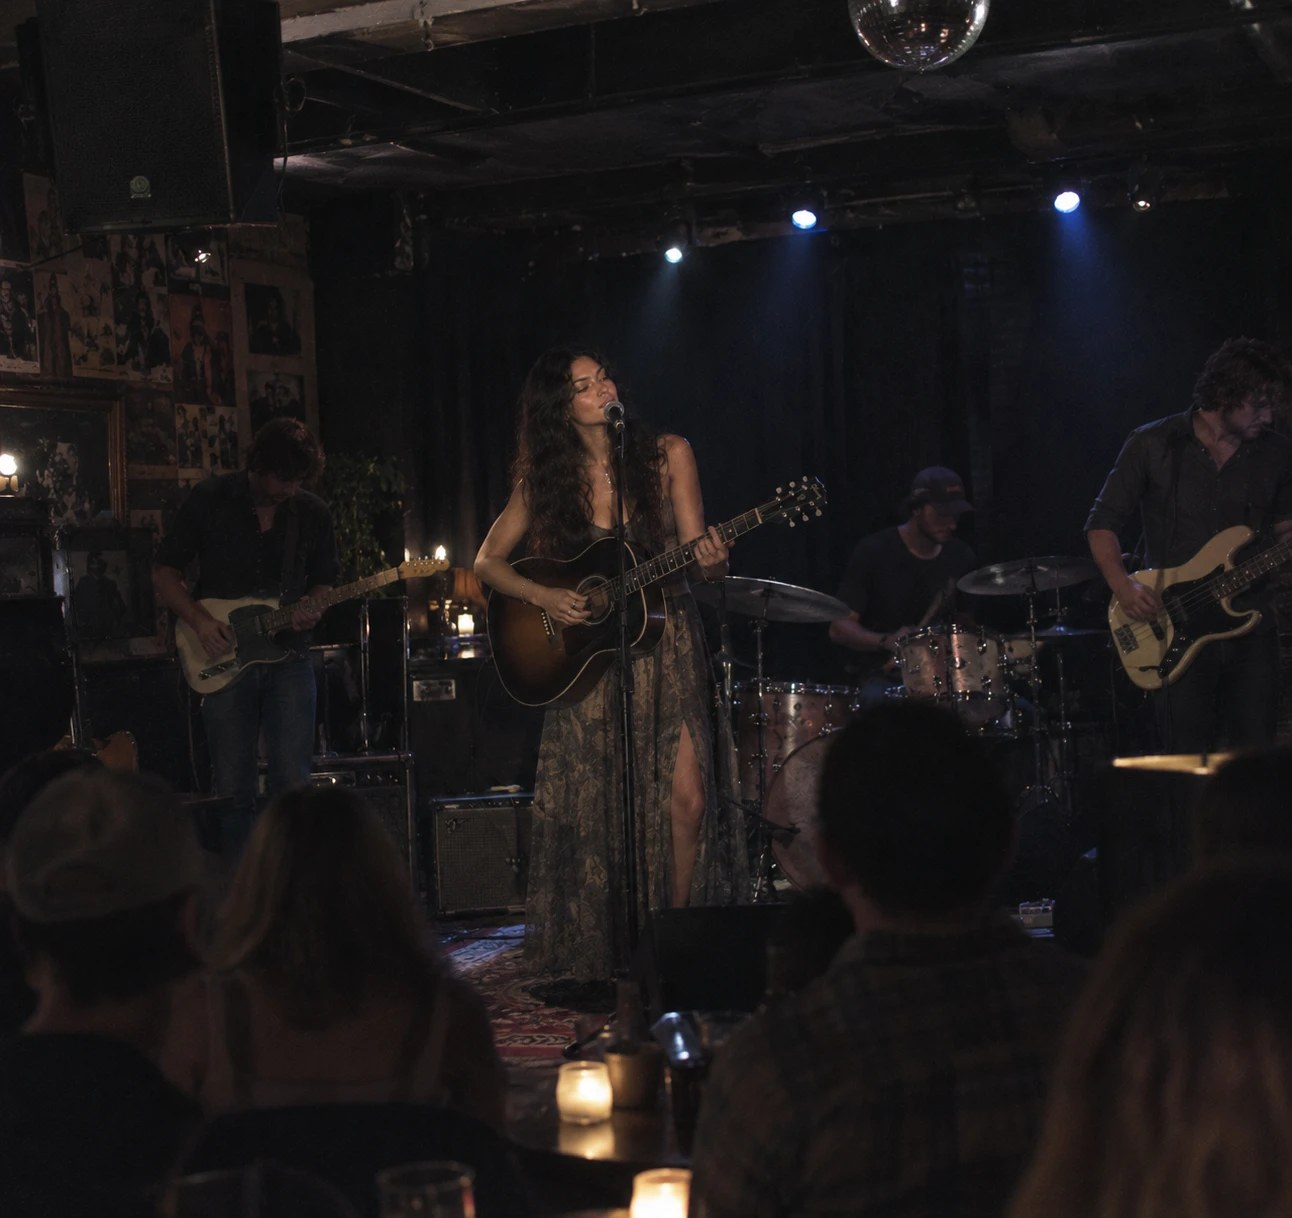
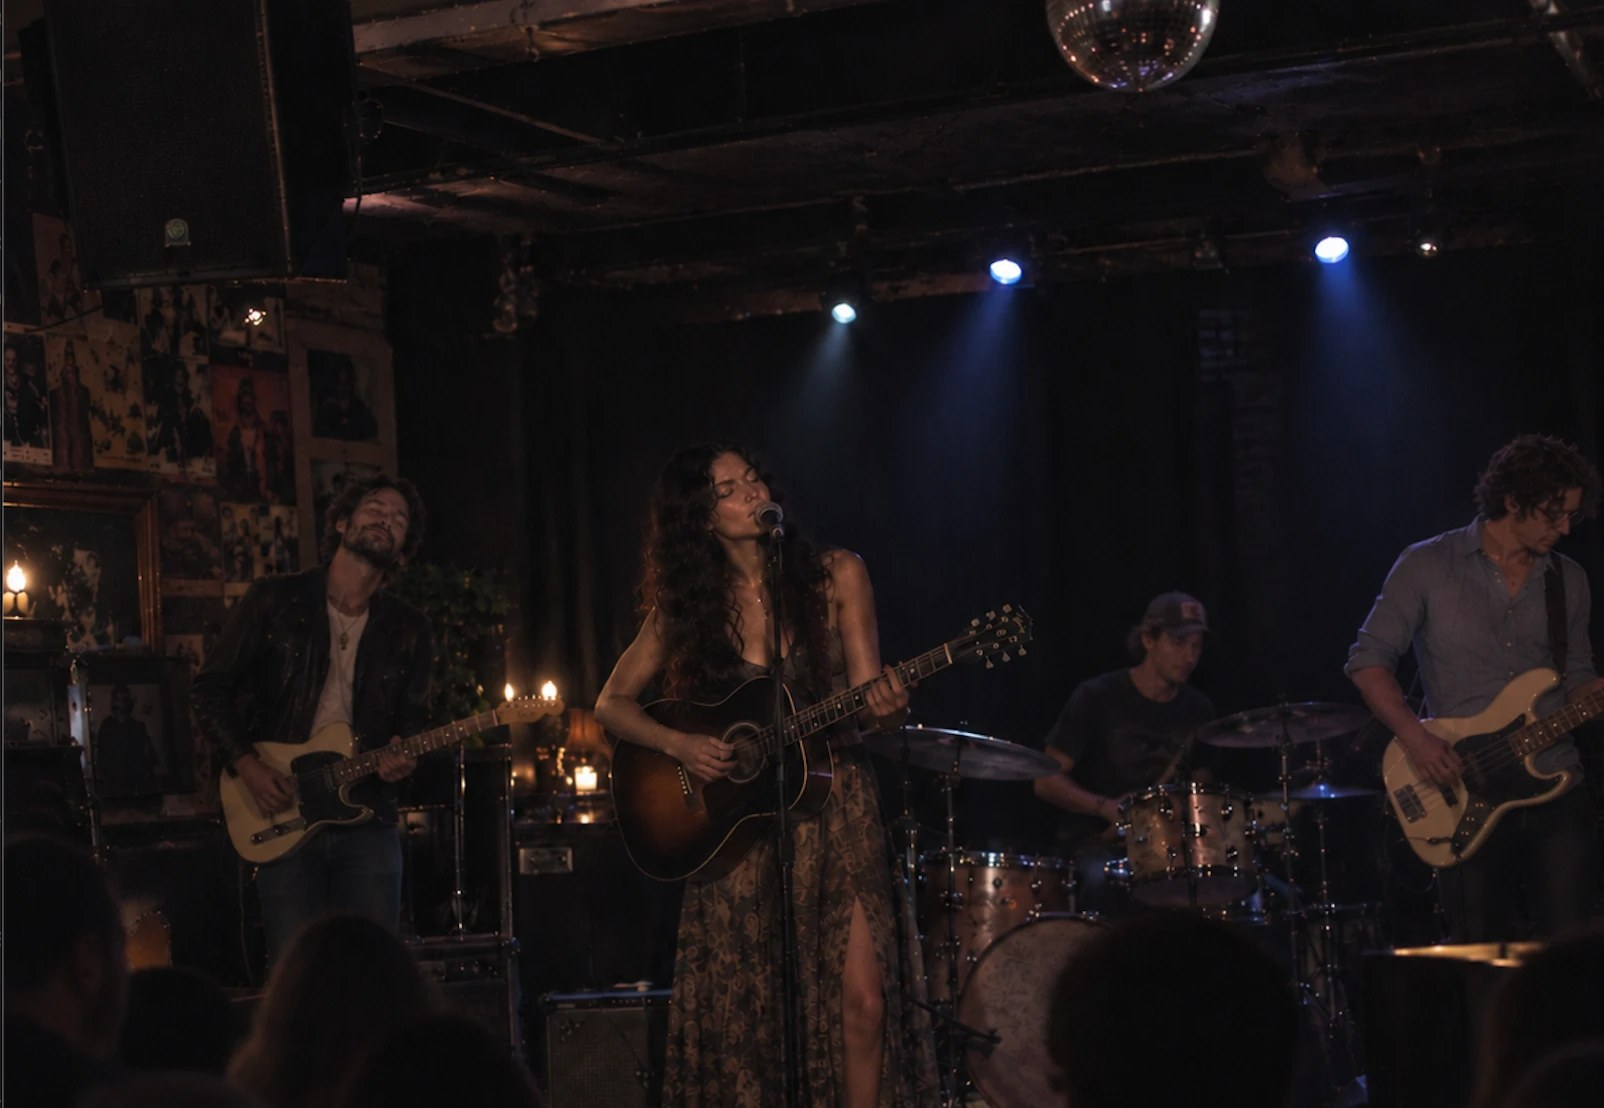
Add new live photo to gallery (metadata-free): Vee and her band, The Honey Makers

diff --git a/index.html b/index.html
@@ -19,7 +19,7 @@
 <meta property="og:image:height" content="630">
 <meta property="og:image:alt" content="Vee Valentine wordmark beside a portrait of the artist at a vintage microphone">
 <meta name="twitter:card" content="summary_large_image">
-<link rel="stylesheet" href="style.css?v=31">
+<link rel="stylesheet" href="style.css?v=32">
 <script type="application/ld+json">{"@context":"https://schema.org","@type":"MusicGroup","name":"Vee Valentine","url":"https://veevalentine.com/","description":"Chicago vocalist blending classic jazz and lounge influences with modern pop.","genre":["Pop","Jazz","Lounge"],"image":"https://veevalentine.com/images/og-vee-valentine.jpg"}</script>
 </head>
 <body>
@@ -98,7 +98,7 @@
 <a class="thumb" href="images/web/booth-full.webp" data-lightbox><img src="images/web/booth-full.webp" srcset="images/web/booth-640.webp 640w, images/web/booth-full.webp 896w" sizes="(max-width:899px) 46vw, 22vw" width="896" height="1181" alt="Vee in the studio" loading="lazy" decoding="async"></a>
 <a class="thumb" href="images/web/studio-full.webp" data-lightbox><img src="images/web/studio-full.webp" srcset="images/web/studio-640.webp 640w, images/web/studio-full.webp 1024w" sizes="(max-width:899px) 46vw, 22vw" width="1024" height="1535" alt="Vee recording demos" loading="lazy" decoding="async"></a>
 <a class="thumb" href="images/web/group-full.webp" data-lightbox><img src="images/web/group-full.webp" srcset="images/web/group-640.webp 640w, images/web/group-full.webp 1086w" sizes="(max-width:899px) 46vw, 22vw" width="1086" height="1448" alt="Vee in Nashville with her band (The Honey Makers)" loading="lazy" decoding="async"></a>
-<a class="thumb thumb-wide" href="images/web/live-full.webp" data-lightbox><img src="images/web/live-full.webp" srcset="images/web/live-640.webp 640w, images/web/live-full.webp 1292w" sizes="(max-width:1180px) 92vw, 1116px" width="1292" height="1218" alt="Vee and her band, The Honey Makers" loading="lazy" decoding="async"></a>
+<a class="thumb thumb-wide" href="images/web/live-full.webp" data-lightbox><img src="images/web/live-full.webp" srcset="images/web/live-640.webp 640w, images/web/live-full.webp 1604w" sizes="(max-width:1180px) 92vw, 1116px" width="1604" height="1108" alt="Vee and her band, The Honey Makers" loading="lazy" decoding="async"></a>
 </div>
 </div>
 </section>

diff --git a/style.css b/style.css
@@ -248,5 +248,5 @@ dialog.lb::backdrop{background:rgba(20,6,12,.94)}
 
 /* Wide feature photo in the gallery */
 .thumb-wide{grid-column:1/-1}
-.thumb-wide img{aspect-ratio:16/9;object-position:50% 42%}
-@media (min-width:900px){.thumb-wide img{aspect-ratio:2.2/1;object-position:50% 38%}}
+.thumb-wide img{aspect-ratio:16/9;object-position:50% 50%}
+@media (min-width:900px){.thumb-wide img{aspect-ratio:2.2/1;object-position:50% 62%}}

diff --git a/about.html b/about.html
@@ -19,7 +19,7 @@
 <meta property="og:image:height" content="630">
 <meta property="og:image:alt" content="Vee Valentine wordmark beside a portrait of the artist at a vintage microphone">
 <meta name="twitter:card" content="summary_large_image">
-<link rel="stylesheet" href="style.css?v=31">
+<link rel="stylesheet" href="style.css?v=32">
 </head>
 <body>
 <a class="skip" href="#main">Skip to content</a>

diff --git a/contact.html b/contact.html
@@ -19,7 +19,7 @@
 <meta property="og:image:height" content="630">
 <meta property="og:image:alt" content="Vee Valentine wordmark beside a portrait of the artist at a vintage microphone">
 <meta name="twitter:card" content="summary_large_image">
-<link rel="stylesheet" href="style.css?v=31">
+<link rel="stylesheet" href="style.css?v=32">
 </head>
 <body>
 <a class="skip" href="#main">Skip to content</a>

diff --git a/music.html b/music.html
@@ -19,7 +19,7 @@
 <meta property="og:image:height" content="630">
 <meta property="og:image:alt" content="Vee Valentine wordmark beside a portrait of the artist at a vintage microphone">
 <meta name="twitter:card" content="summary_large_image">
-<link rel="stylesheet" href="style.css?v=31">
+<link rel="stylesheet" href="style.css?v=32">
 </head>
 <body>
 <a class="skip" href="#main">Skip to content</a>

diff --git a/privacy.html b/privacy.html
@@ -19,7 +19,7 @@
 <meta property="og:image:height" content="630">
 <meta property="og:image:alt" content="Vee Valentine wordmark beside a portrait of the artist at a vintage microphone">
 <meta name="twitter:card" content="summary_large_image">
-<link rel="stylesheet" href="style.css?v=31">
+<link rel="stylesheet" href="style.css?v=32">
 </head>
 <body>
 <a class="skip" href="#main">Skip to content</a>

diff --git a/shows.html b/shows.html
@@ -19,7 +19,7 @@
 <meta property="og:image:height" content="630">
 <meta property="og:image:alt" content="Vee Valentine wordmark beside a portrait of the artist at a vintage microphone">
 <meta name="twitter:card" content="summary_large_image">
-<link rel="stylesheet" href="style.css?v=31">
+<link rel="stylesheet" href="style.css?v=32">
 </head>
 <body>
 <a class="skip" href="#main">Skip to content</a>
